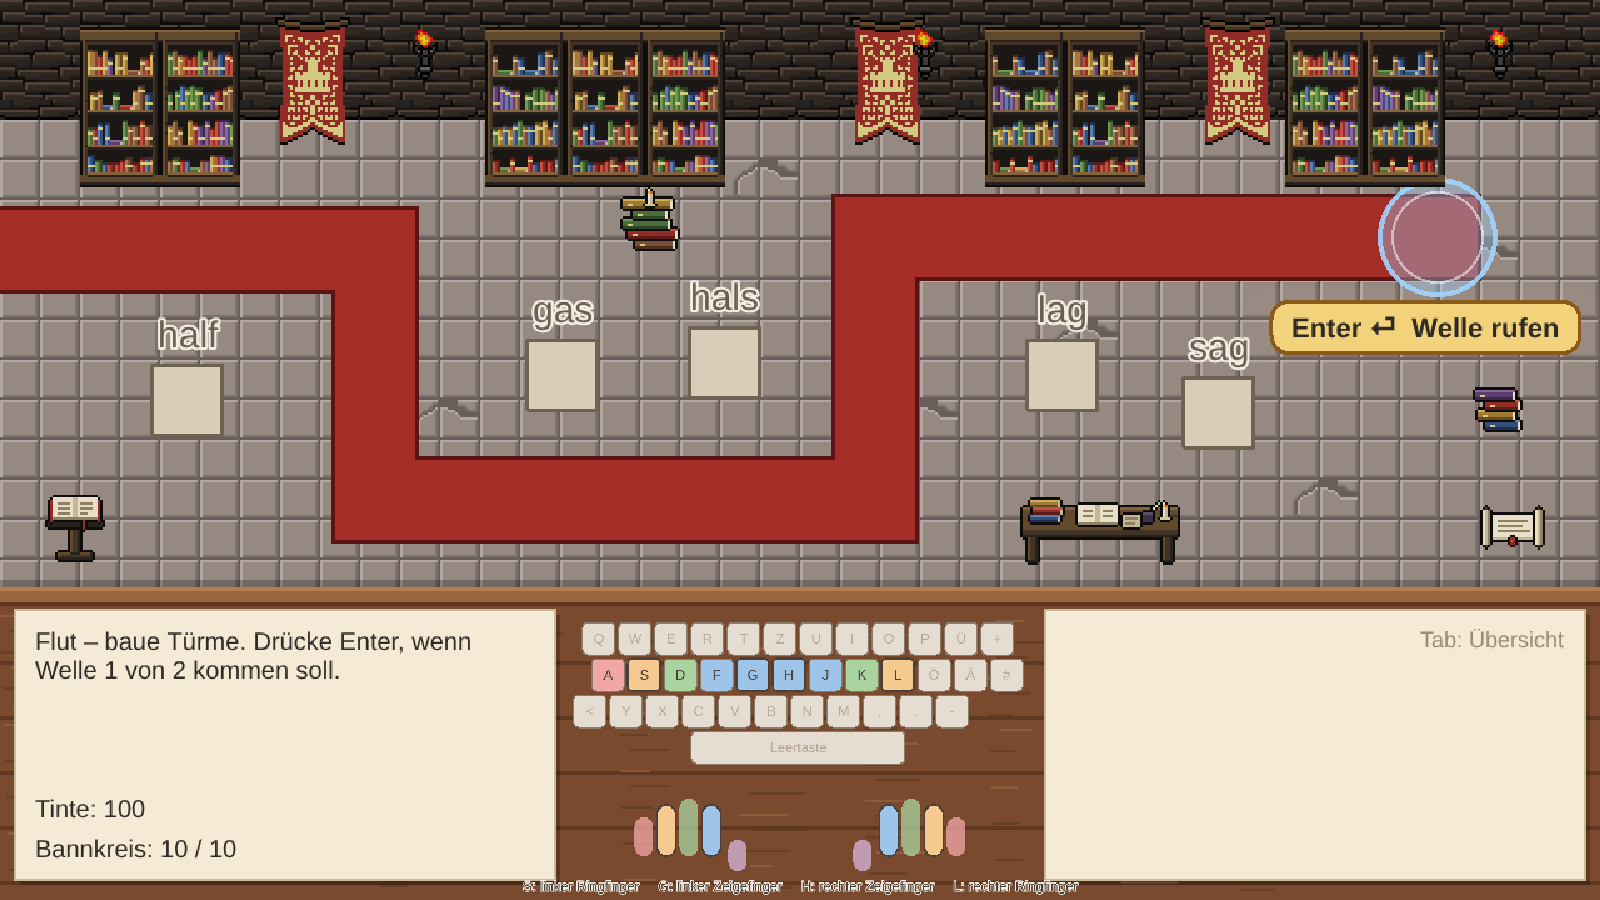
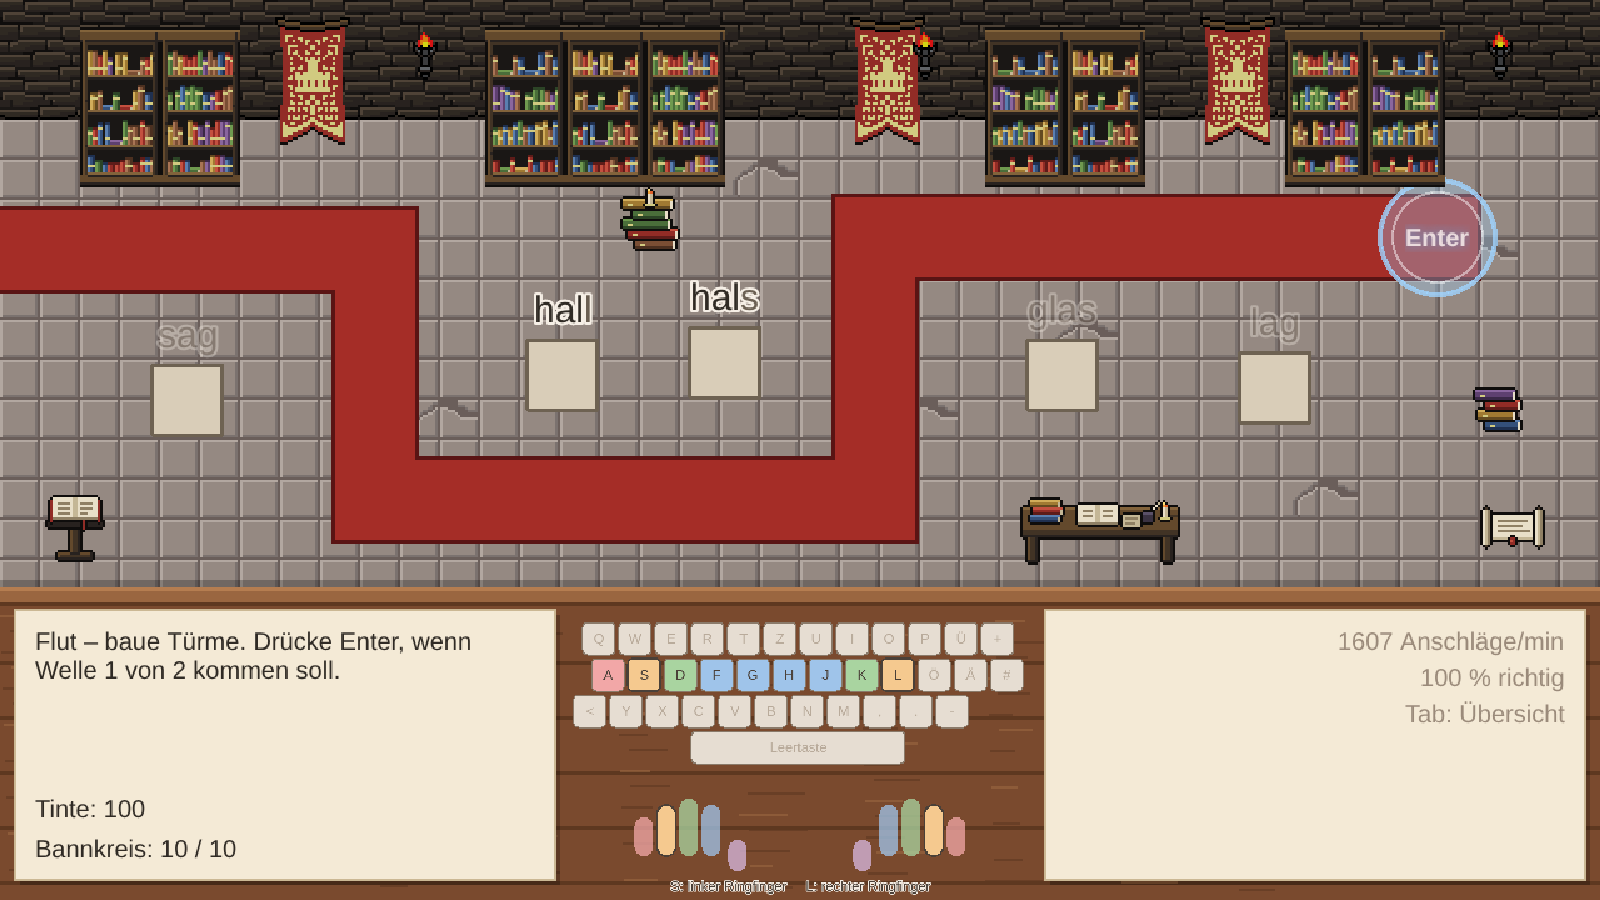
fix: show Enter inside the ward circle and wrap the statistics

diff --git a/src/scenes/BattleScene.ts b/src/scenes/BattleScene.ts
@@ -132,8 +132,8 @@ export class BattleScene extends Phaser.Scene {
   #enemies = new Map<number, EnemyView>();
   #towers = new Map<string, TowerView>();
   #ward!: Phaser.GameObjects.Graphics;
-  /** Highlighted prompt below the ward circle during a flood: Enter calls the next wave. */
-  #wavePrompt!: Phaser.GameObjects.Container;
+  /** »Enter« in the middle of the ward circle during a flood: Enter calls the next wave. */
+  #wavePrompt!: Phaser.GameObjects.Text;
   #phaseText!: Phaser.GameObjects.Text;
   #inkText!: Phaser.GameObjects.Text;
   #wardText!: Phaser.GameObjects.Text;
@@ -416,17 +416,13 @@ export class BattleScene extends Phaser.Scene {
     this.#ward = this.add.graphics({ x: end.x, y: end.y }).setDepth(3);
     this.tweens.add({ targets: this.#ward, alpha: { from: 1, to: 0.6 }, duration: 1200, yoyo: true, repeat: -1 });
 
-    const label = this.add
-      .text(0, 0, 'Enter ⏎  Welle rufen', { fontFamily: 'sans-serif', fontSize: '22px', color: '#2f2a24', fontStyle: 'bold' })
-      .setOrigin(0.5);
-    const pill = this.add
-      .rectangle(0, 0, label.width + 32, label.height + 16, 0xf2d27a)
-      .setRounded(14)
-      .setStrokeStyle(3, 0x8a5a1a);
-    const glow = this.add.rectangle(0, 0, pill.width + 14, pill.height + 14, 0xffe9a8, 0.45).setRounded(20);
-    // Below the circle, but pulled left so it stays on screen.
-    this.#wavePrompt = this.add.container(Math.min(end.x, this.scale.width - pill.width / 2 - 16), end.y + 72, [glow, pill, label]).setDepth(1002);
-    this.tweens.add({ targets: glow, alpha: { from: 0.45, to: 0.05 }, scale: { from: 1, to: 1.12 }, duration: 900, yoyo: true, repeat: -1 });
+    this.#wavePrompt = this.add
+      .text(end.x, end.y, 'Enter', { fontFamily: 'sans-serif', fontSize: '20px', color: '#ffffff', fontStyle: 'bold' })
+      .setOrigin(0.5)
+      .setShadow(0, 0, '#5ab4ff', 10, true, true)
+      .setDepth(1002);
+    // The blue glow breathes, so the prompt is noticed without shouting.
+    this.tweens.add({ targets: this.#wavePrompt, alpha: { from: 1, to: 0.65 }, duration: 900, yoyo: true, repeat: -1 });
   }
 
   /** Wooden desk below the map: the keyboard lies on it, the notes left and right carry the texts. */

diff --git a/src/ui/StatsView.ts b/src/ui/StatsView.ts
@@ -14,7 +14,7 @@ function minutes(ms: number): string {
 const DEPTH = 2000;
 
 /**
- * Session statistics: a quiet line, right-aligned at `line`, while playing and
+ * Session statistics: a few quiet lines, right-aligned at `line`, while playing and
  * an overview panel at `overview` on demand.
  */
 export class StatsView {
@@ -25,7 +25,7 @@ export class StatsView {
 
   constructor(scene: Phaser.Scene, line: { x: number; y: number }, overview: { x: number; y: number }) {
     this.#line = scene.add
-      .text(line.x, line.y, '', { fontFamily: 'sans-serif', fontSize: '18px', color: QUIET_TEXT })
+      .text(line.x, line.y, '', { fontFamily: 'sans-serif', fontSize: '20px', color: QUIET_TEXT, align: 'right', lineSpacing: 6 })
       .setOrigin(1, 0)
       .setDepth(DEPTH);
     this.#overviewText = scene.add
@@ -43,7 +43,8 @@ export class StatsView {
     const strokes = session.correctStrokes + session.wrongStrokes;
     const speed = Math.round(session.strokesPerMinute);
     const accuracy = Math.round(session.accuracy * 100);
-    this.#line.setText(strokes === 0 ? 'Tab: Übersicht' : `${speed} Anschläge/min · ${accuracy} % richtig · Tab: Übersicht`);
+    // One fact per line, so it fits a narrow note.
+    this.#line.setText(strokes === 0 ? 'Tab: Übersicht' : [`${speed} Anschläge/min`, `${accuracy} % richtig`, 'Tab: Übersicht']);
 
     const sessions = progress.snapshot().sessions;
     const totalCorrect = sessions.reduce((sum, s) => sum + s.correct, 0);

diff --git a/src/content/library.ts b/src/content/library.ts
@@ -23,8 +23,7 @@ export const LIBRARY_SITES: readonly BuildSite[] = [
   { id: 'b', x: 450, y: 300 },
   { id: 'c', x: 580, y: 290 },
   { id: 'd', x: 850, y: 300 },
-  // Left of the wave prompt below the ward circle.
-  { id: 'e', x: 975, y: 330 },
+  { id: 'e', x: 1020, y: 310 },
 ];
 
 /** Gentle waves per tutorial section: few, slow golems, enough ink for two towers at the start. */
